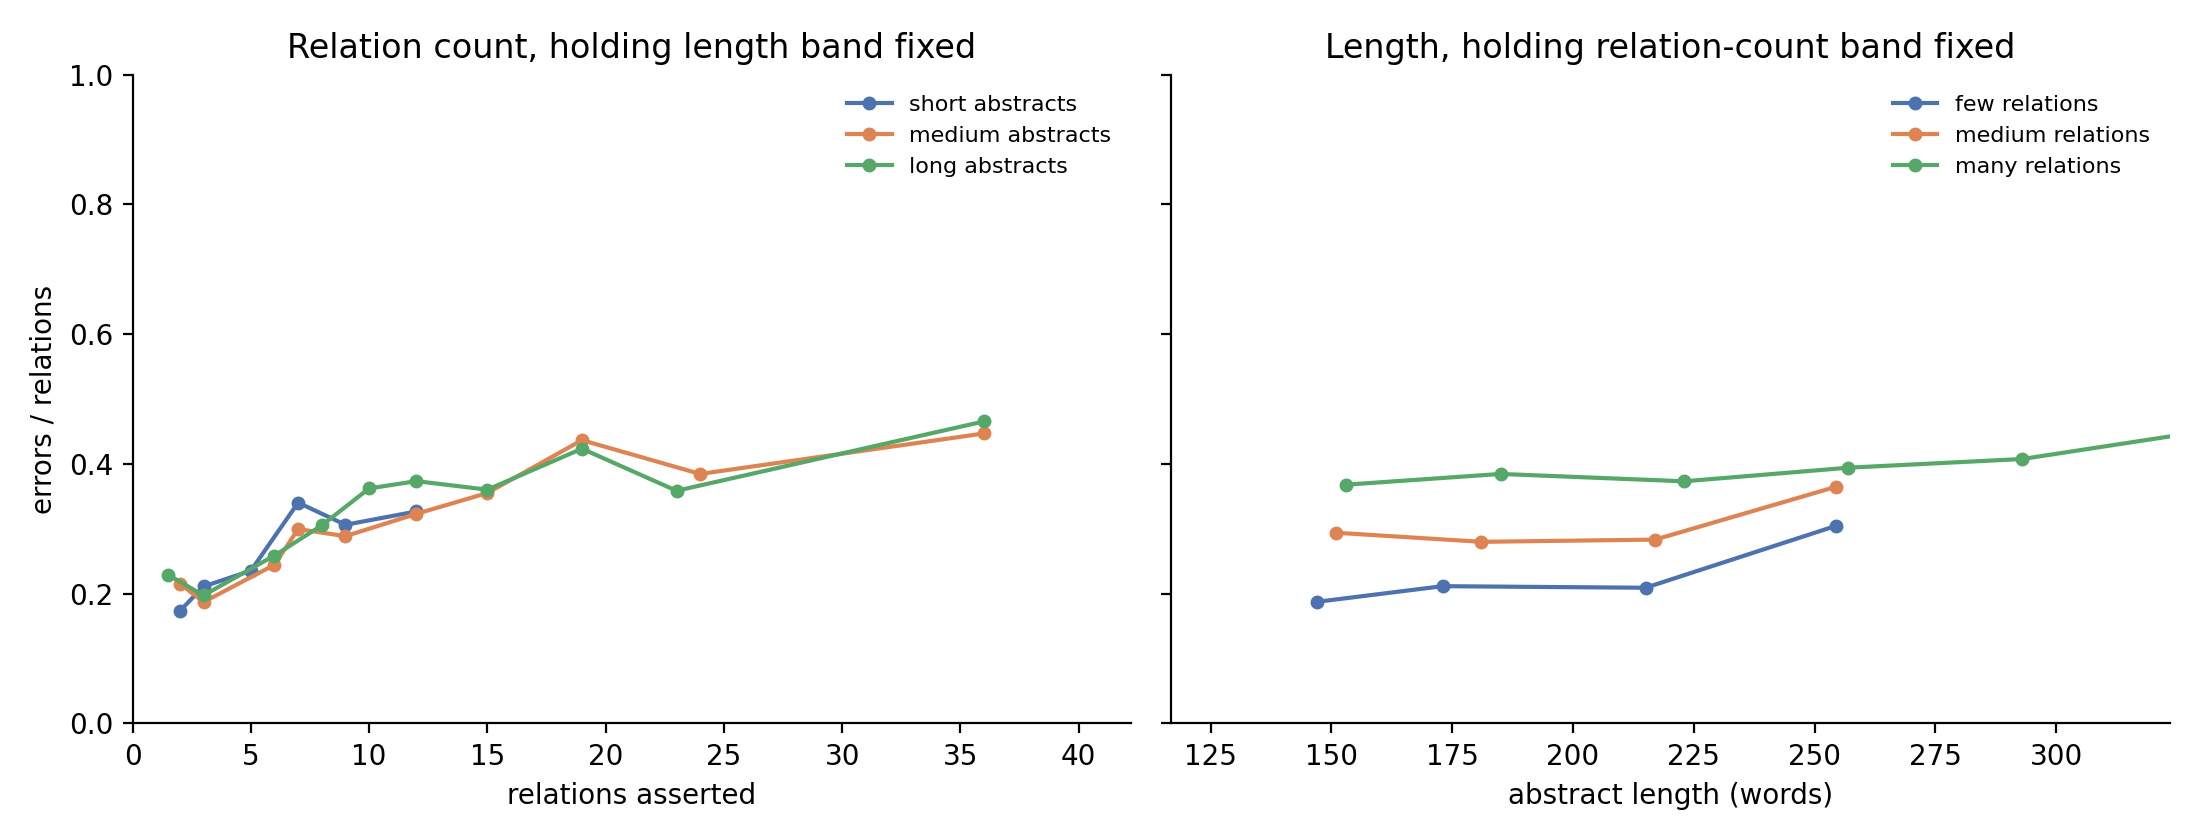
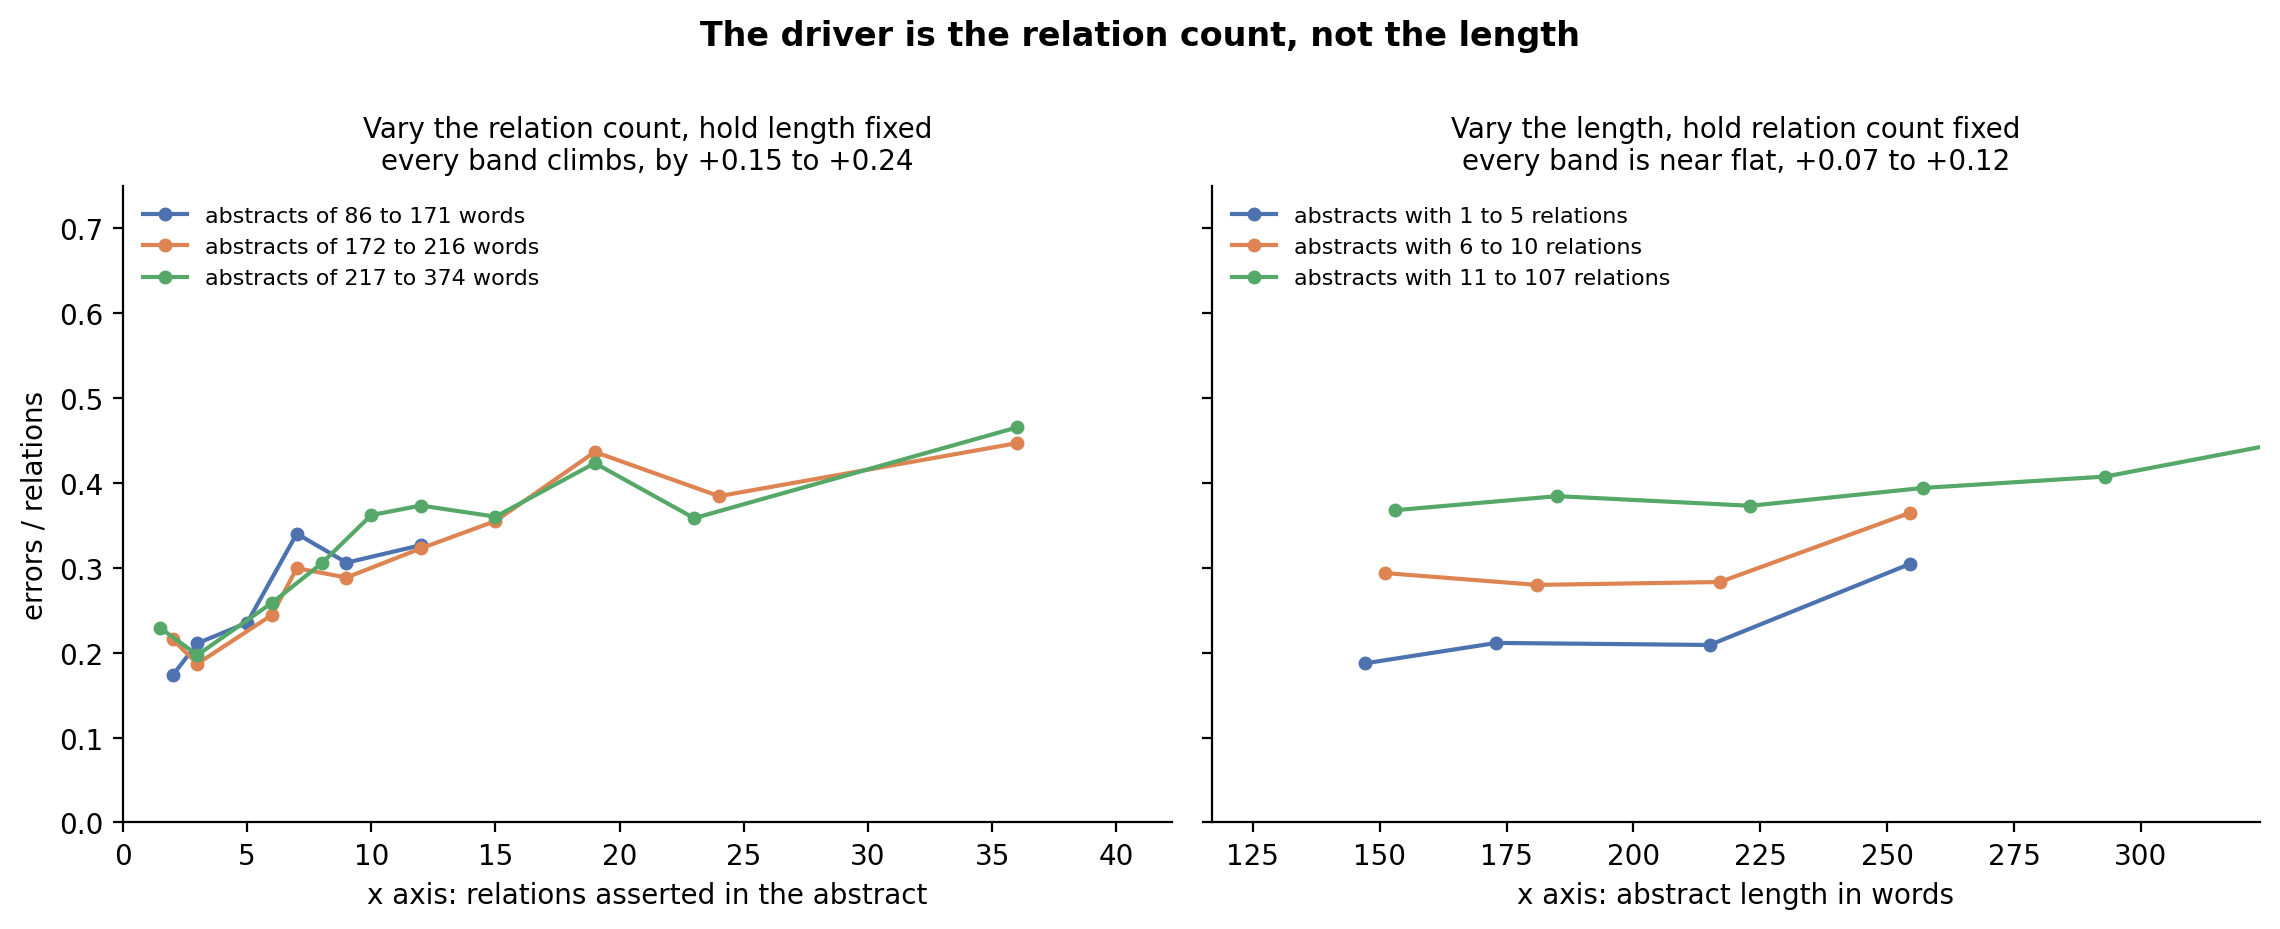
Rebuild the disentangled error-rate figure so it states its own answer, and correct the shipped-rule label in LEVELS.md

diff --git a/qc_filtering/error_rate_analysis.py b/qc_filtering/error_rate_analysis.py
@@ -176,33 +176,68 @@ def main():
     abs_df["rel_band"] = pd.qcut(abs_df.n_relations, 3,
                                  labels=["few", "medium", "many"])
 
-    fig, axes = plt.subplots(1, 2, figsize=(11, 4.2), sharey=True)
-    for band, colour in zip(["short", "medium", "long"], ["#4C72B0", "#DD8452", "#55A868"]):
-        sub = abs_df[abs_df.len_band == band]
-        b = binned(sub.n_relations, sub.error_rate, rel_edges)
-        axes[0].plot(b.centre, b["mean"], marker="o", markersize=4, color=colour,
-                     label=f"{band} abstracts")
-    axes[0].set_xlim(0, float(np.quantile(abs_df.n_relations, 0.98)) * 1.03)
-    axes[0].set_xlabel("relations asserted")
-    axes[0].set_ylabel("errors / relations")
-    axes[0].set_title("Relation count, holding length band fixed")
+    # Legibility matters more than correctness here. The first version of this
+    # figure was right and still could not be read at a glance, because each
+    # panel's legend names the variable that is NOT on its x-axis. So: spell the
+    # bands out as real ranges, put the question in the panel title and the
+    # answer in the subtitle, and print the measured swing on the panel.
+    def band_ranges(col, band_col, labels):
+        out = {}
+        for lab in labels:
+            v = abs_df.loc[abs_df[band_col] == lab, col]
+            out[lab] = (int(v.min()), int(v.max()))
+        return out
 
-    for band, colour in zip(["few", "medium", "many"], ["#4C72B0", "#DD8452", "#55A868"]):
-        sub = abs_df[abs_df.rel_band == band]
+    len_r = band_ranges("abstract_words", "len_band", ["short", "medium", "long"])
+    rel_r = band_ranges("n_relations", "rel_band", ["few", "medium", "many"])
+    colours = ["#4C72B0", "#DD8452", "#55A868"]
+
+    def swing(sub, xcol, edges):
+        """First to last surviving bin, so the panel states its own effect size."""
+        b = binned(sub[xcol], sub.error_rate, edges)
+        return b["mean"].iloc[-1] - b["mean"].iloc[0] if len(b) > 1 else float("nan")
+
+    fig, axes = plt.subplots(1, 2, figsize=(11.5, 4.6), sharey=True)
+
+    swings = []
+    for lab, colour in zip(["short", "medium", "long"], colours):
+        sub = abs_df[abs_df.len_band == lab]
+        b = binned(sub.n_relations, sub.error_rate, rel_edges)
+        lo, hi = len_r[lab]
+        axes[0].plot(b.centre, b["mean"], marker="o", markersize=4, color=colour,
+                     label=f"abstracts of {lo} to {hi} words")
+        swings.append(swing(sub, "n_relations", rel_edges))
+    axes[0].set_xlim(0, float(np.quantile(abs_df.n_relations, 0.98)) * 1.03)
+    axes[0].set_xlabel("x axis: relations asserted in the abstract")
+    axes[0].set_ylabel("errors / relations")
+    axes[0].set_title("Vary the relation count, hold length fixed\n"
+                      f"every band climbs, by {min(swings):+.2f} to {max(swings):+.2f}",
+                      fontsize=10)
+
+    swings = []
+    for lab, colour in zip(["few", "medium", "many"], colours):
+        sub = abs_df[abs_df.rel_band == lab]
         b = binned(sub.abstract_words, sub.error_rate, len_edges)
+        lo, hi = rel_r[lab]
         axes[1].plot(b.centre, b["mean"], marker="o", markersize=4, color=colour,
-                     label=f"{band} relations")
+                     label=f"abstracts with {lo} to {hi} relations")
+        swings.append(swing(sub, "abstract_words", len_edges))
     axes[1].set_xlim(float(np.quantile(abs_df.abstract_words, 0.01)) * 0.95,
                      float(np.quantile(abs_df.abstract_words, 0.99)) * 1.03)
-    axes[1].set_xlabel("abstract length (words)")
-    axes[1].set_title("Length, holding relation-count band fixed")
+    axes[1].set_xlabel("x axis: abstract length in words")
+    axes[1].set_title("Vary the length, hold relation count fixed\n"
+                      f"every band is near flat, {min(swings):+.2f} to {max(swings):+.2f}",
+                      fontsize=10)
 
     for ax in axes:
-        ax.set_ylim(0, 1)
-        ax.legend(frameon=False, fontsize=8)
+        ax.set_ylim(0, 0.75)
+        ax.legend(frameon=False, fontsize=8, loc="upper left")
         ax.spines[["top", "right"]].set_visible(False)
+    fig.suptitle("The driver is the relation count, not the length",
+                 fontsize=12, fontweight="bold", y=1.0)
     fig.tight_layout()
-    fig.savefig(FIG_DIR / "error_rate_disentangled.png", dpi=200)
+    fig.savefig(FIG_DIR / "error_rate_disentangled.png", dpi=200,
+                bbox_inches="tight")
     plt.close(fig)
 
     r_rel, p_rel = spearman(abs_df.n_relations, abs_df.error_rate)

diff --git a/qc_filtering/acceptance_levels/LEVELS.md b/qc_filtering/acceptance_levels/LEVELS.md
@@ -18,15 +18,28 @@ suspected noise is tolerated.
 
 | level         | tolerated error rate   |   abstracts kept |   kept % |   train abstracts |   papers in train | note                                                  |
 |:--------------|:-----------------------|-----------------:|---------:|------------------:|------------------:|:------------------------------------------------------|
-| L0_strict     | 0%                     |             1083 |     30.5 |               807 |               190 | no detected error at all, the 2026-08-24 shipped rule |
+| L0_strict     | 0%                     |             1083 |     30.5 |               807 |               190 | no detected error at all, the strictest level          |
 | L1_rate10     | 10%                    |             1195 |     33.7 |               903 |               221 | up to 10% of the claims may be rejected               |
 | L2_rate20     | 20%                    |             1620 |     45.7 |              1232 |               278 | up to 20%                                             |
 | L3_rate33     | 33%                    |             1983 |     55.9 |              1488 |               317 | up to a third                                         |
 | L4_rate50     | 50%                    |             2900 |     81.8 |              2053 |               371 | up to half                                            |
 | L5_unfiltered | 100%                   |             3546 |    100   |              2358 |               393 | everything, the baseline Chris already has            |
-| D_dynamic     | step fn                |             1260 |     35.5 |               952 |               232 | the step function from decide.py, kept for continuity |
+| D_dynamic     | step fn                |             1260 |     35.5 |               952 |               232 | the 2026-08-24 shipped rule, the step function from decide.py |
 
 Rate levels nest correctly: **True**.
+
+## A number here does not match SUMMARY.md, and that is expected
+
+The shipped rule is the dynamic step function with rare types excluded, which is the
+`D_dynamic` row. `SUMMARY.md` and `README.md` report it as 1,307 abstracts kept of
+3,552; the row above says 1,260 of 3,546. Neither is wrong, they use different
+conventions for `rares=exclude`. `decide.py` keeps rare-type rows in an abstract's
+relation count and only stops counting them as failures, so an abstract survives with
+its full denominator. `acceptance_levels.py` and `error_rate_analysis.py` drop those
+rows entirely, so the same abstract is judged on fewer claims and six abstracts lose
+every claim they had, which is where 3,552 becomes 3,546. Both reproduce their own
+outputs exactly. Never mix a number from one file with a number from the other in the
+report or in a slide.
 
 ## Kept per split
 
